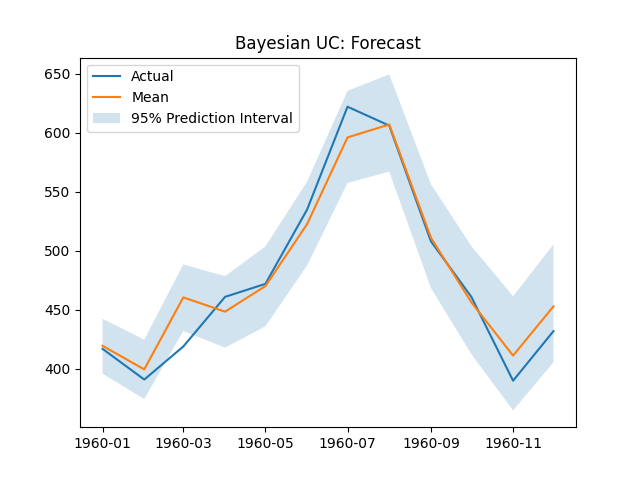
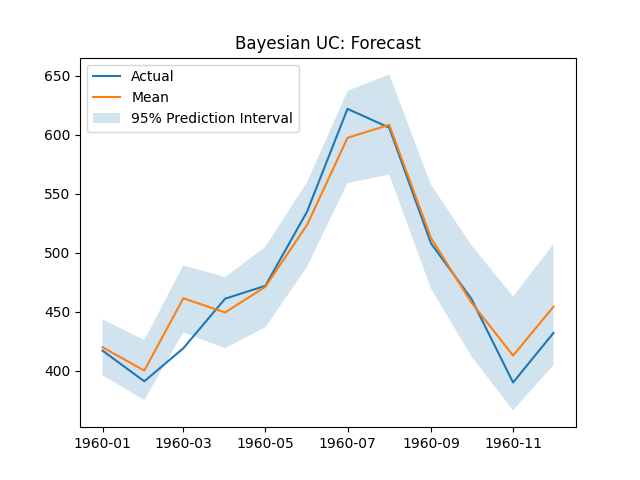
Update to example images and README.md

diff --git a/README.md b/README.md
@@ -280,7 +280,7 @@ print(f"BAYES-UC RMSE: {rmse(y_test.to_numpy(), forecast_mean)}")
 ```
 
 ```
-BAYES-UC RMSE: 17.6053345840511
+BAYES-UC RMSE: 17.80041873850468
 ```
 
 The Bayesian Unobserved Components forecast plot, components plot, and RMSE are shown below.
